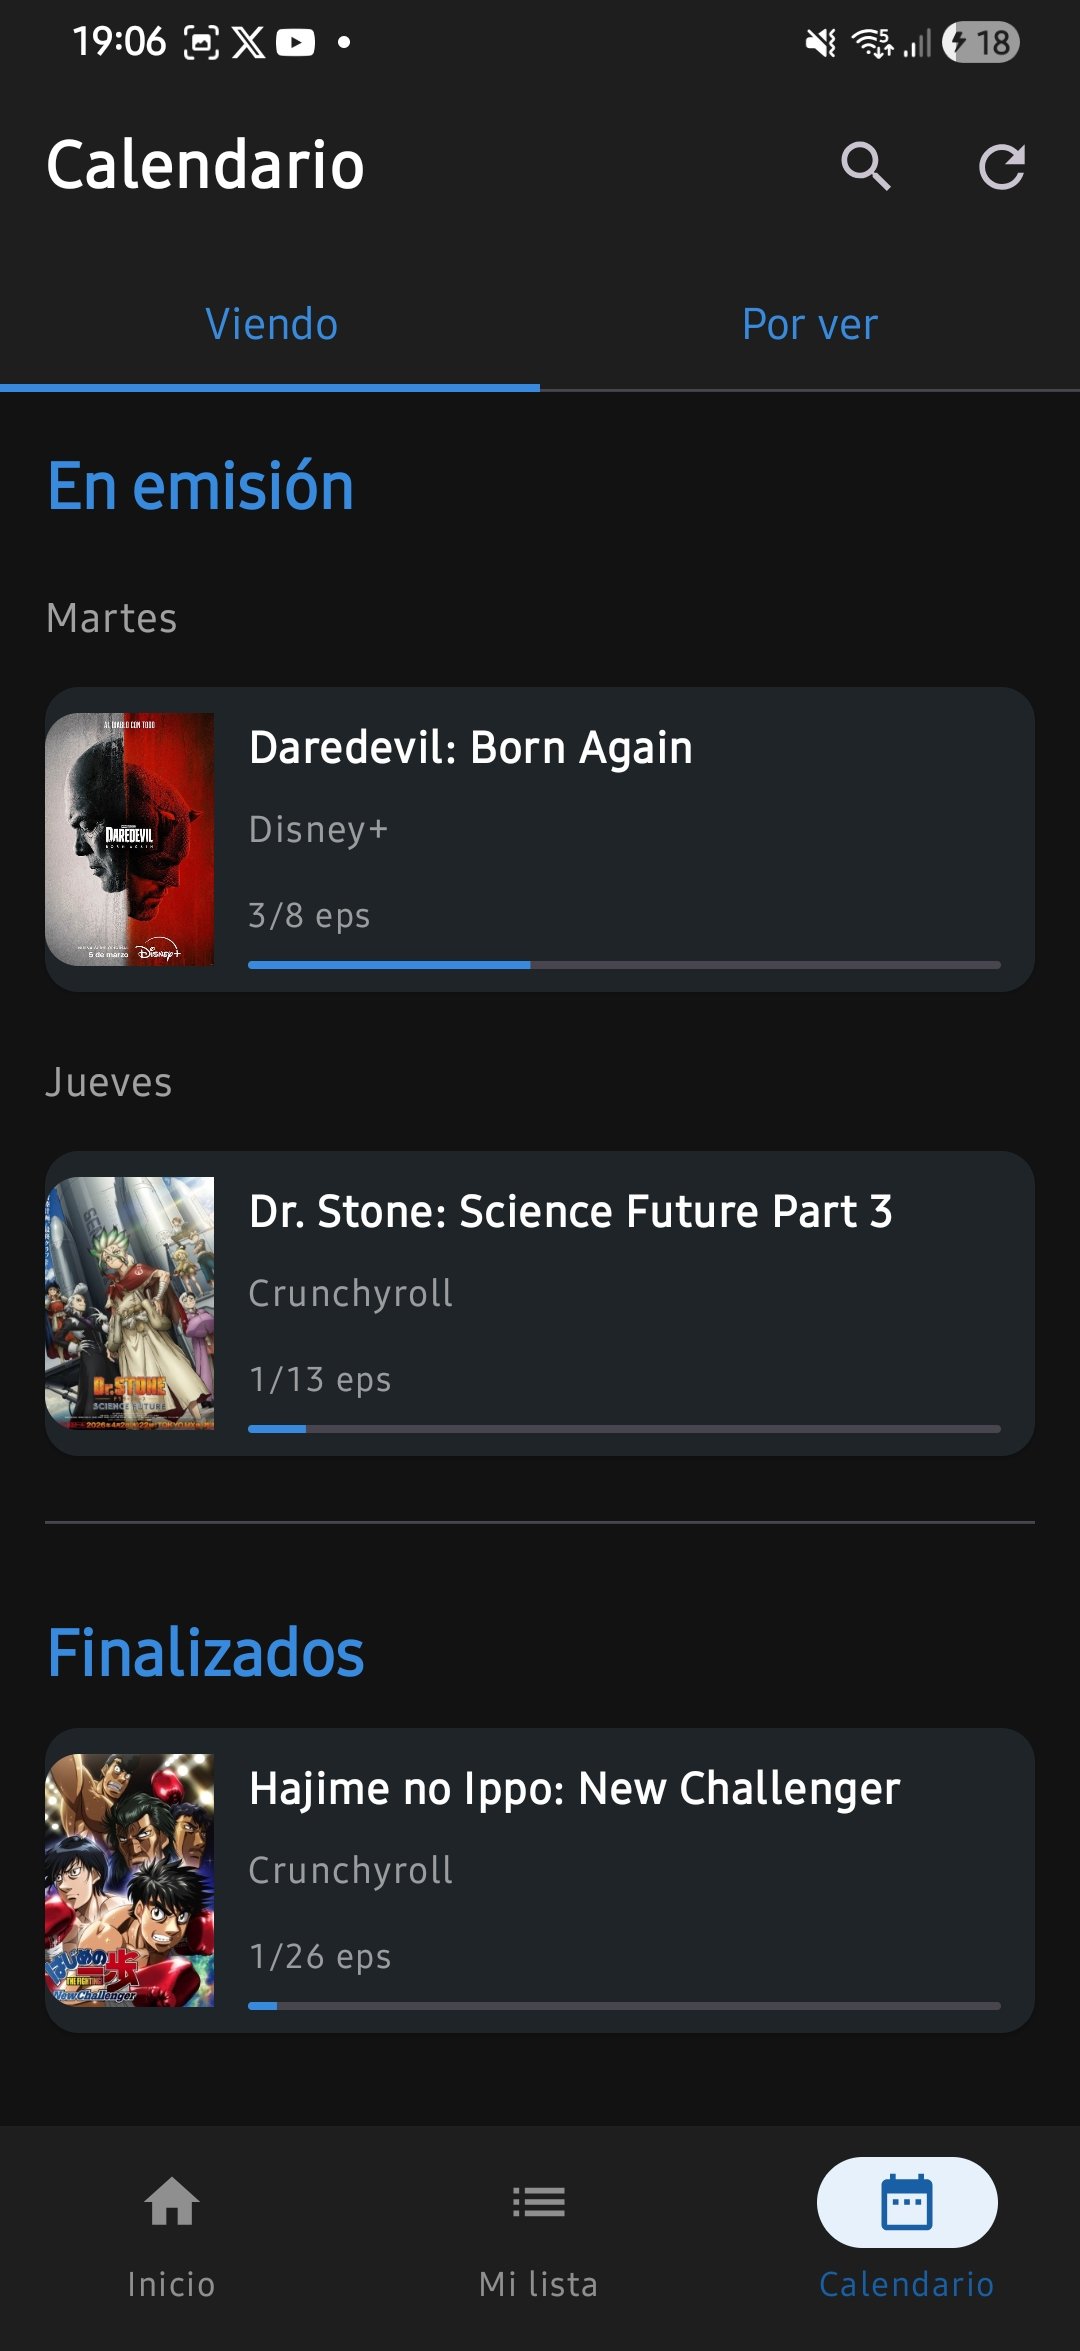
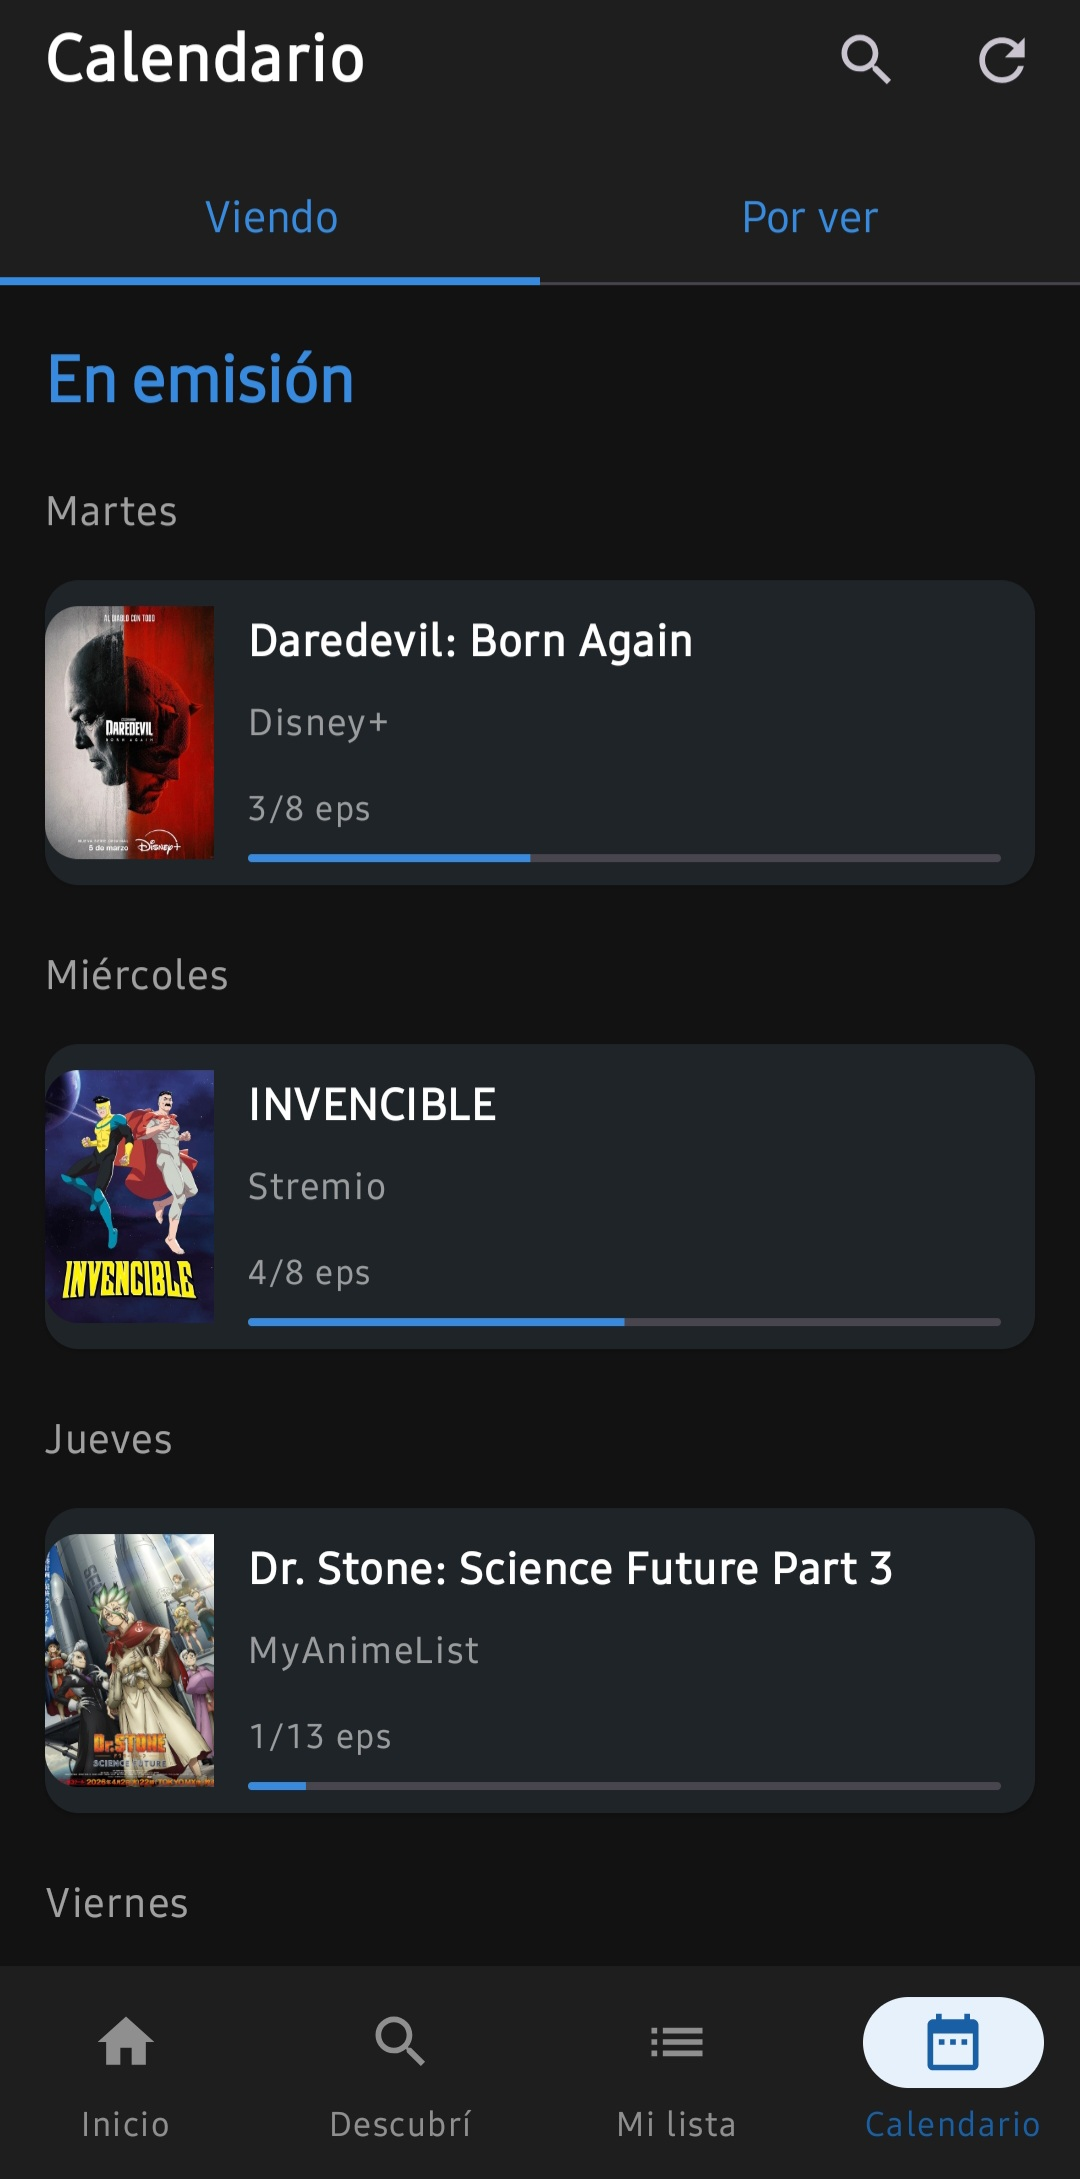
Actualización de Imgenes en el README

diff --git a/README.md b/README.md
@@ -11,11 +11,13 @@ OmniWatch es una aplicación nativa de Android diseñada para centralizar y orga
 <h2 align="center">📱 Vistazo a la App</h2>
 
 <p align="center">
-  <img src="assets/home.jpg" alt="Pantalla de Inicio" width="30%">
+  <img src="assets/home.jpg" alt="Pantalla de Inicio" width="20%">
   &nbsp; &nbsp;
-  <img src="assets/lista.jpg" alt="Pantalla Mi Lista" width="30%">
+  <img src="assets/discovery.jpg" alt="Pantalla Descubrí" width="20%">
   &nbsp; &nbsp;
-  <img src="assets/calendario.jpg" alt="Pantalla Calendario" width="30%">
+  <img src="assets/lista.jpg" alt="Pantalla Mi Lista" width="20%">
+  &nbsp; &nbsp;
+  <img src="assets/calendario.jpg" alt="Pantalla Calendario" width="20%">
 </p>
 
 * **Gestión de Medios:** Organiza tu contenido en listas de estado ("Por ver", "Viendo", "Visto").
